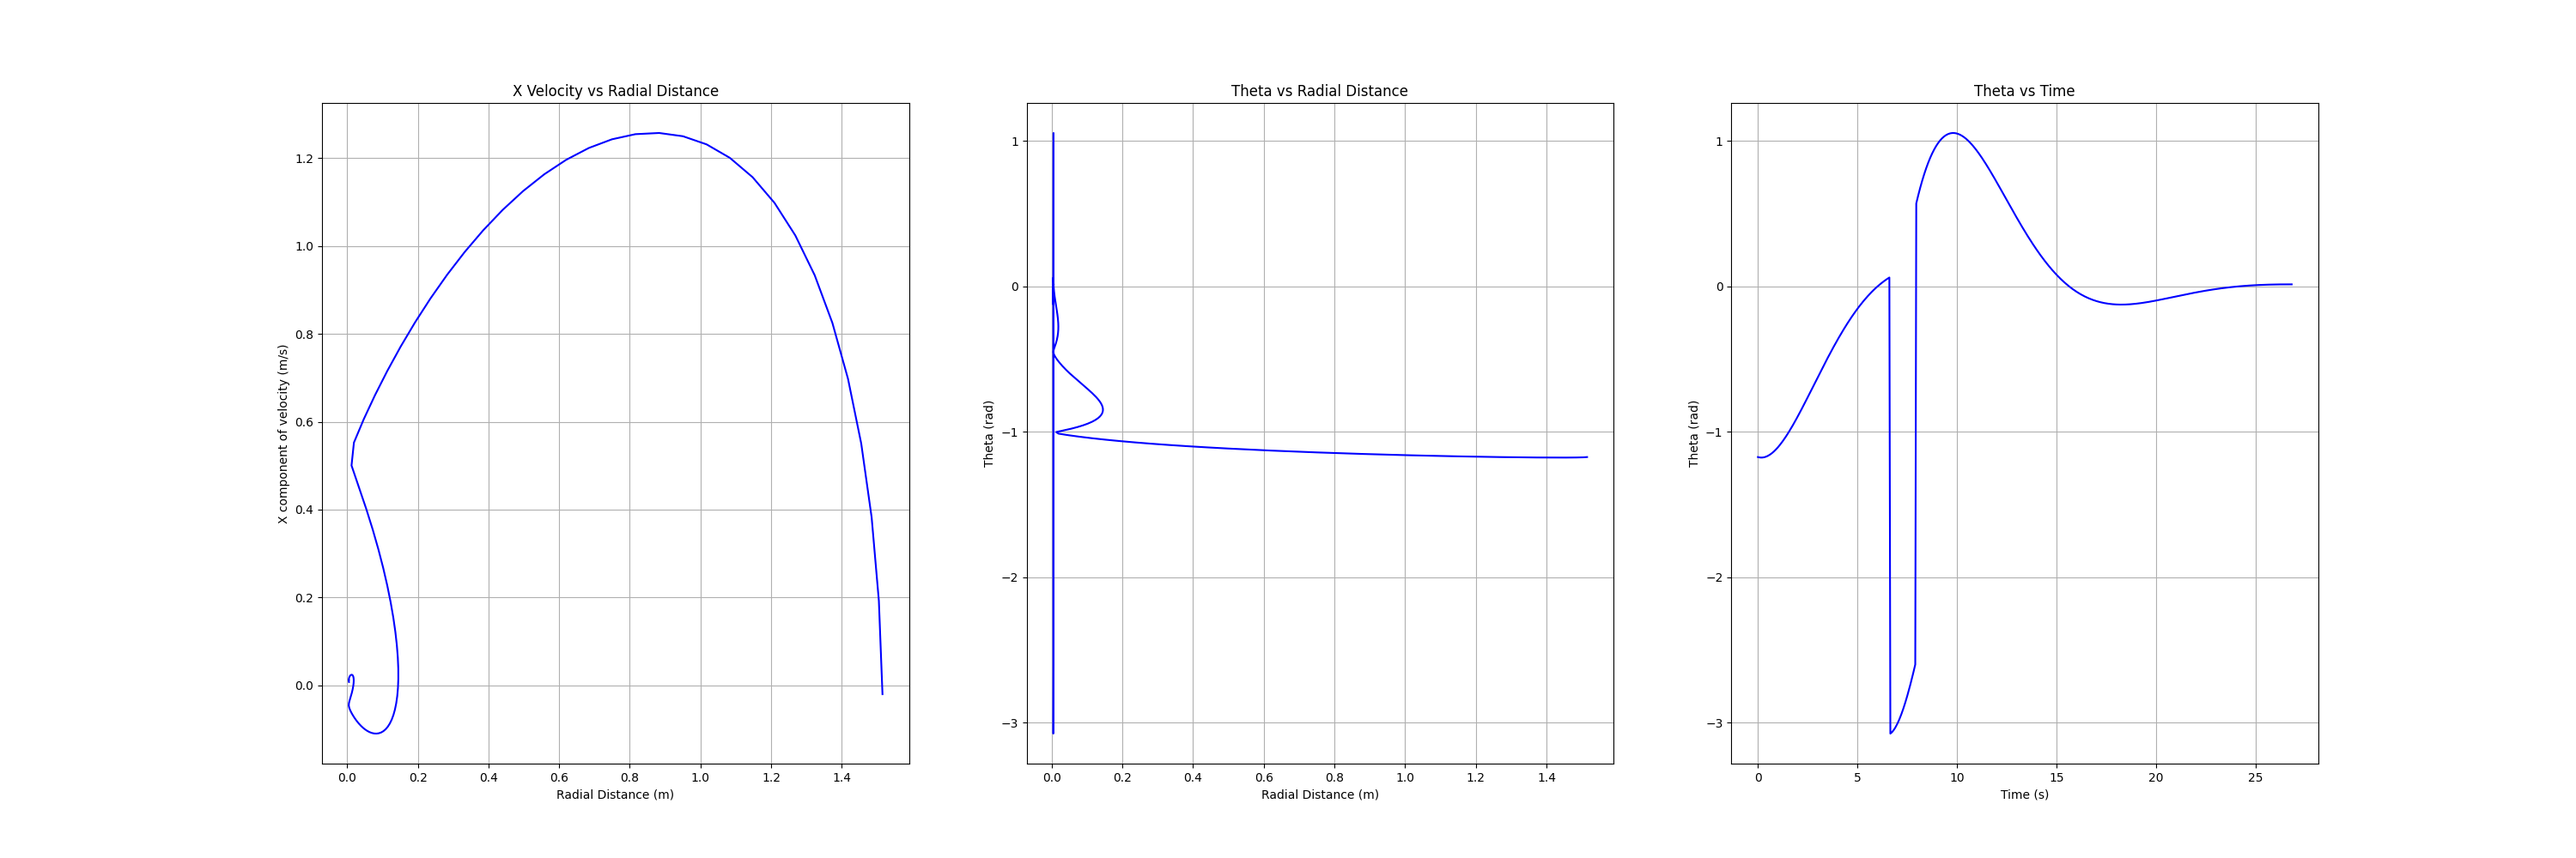
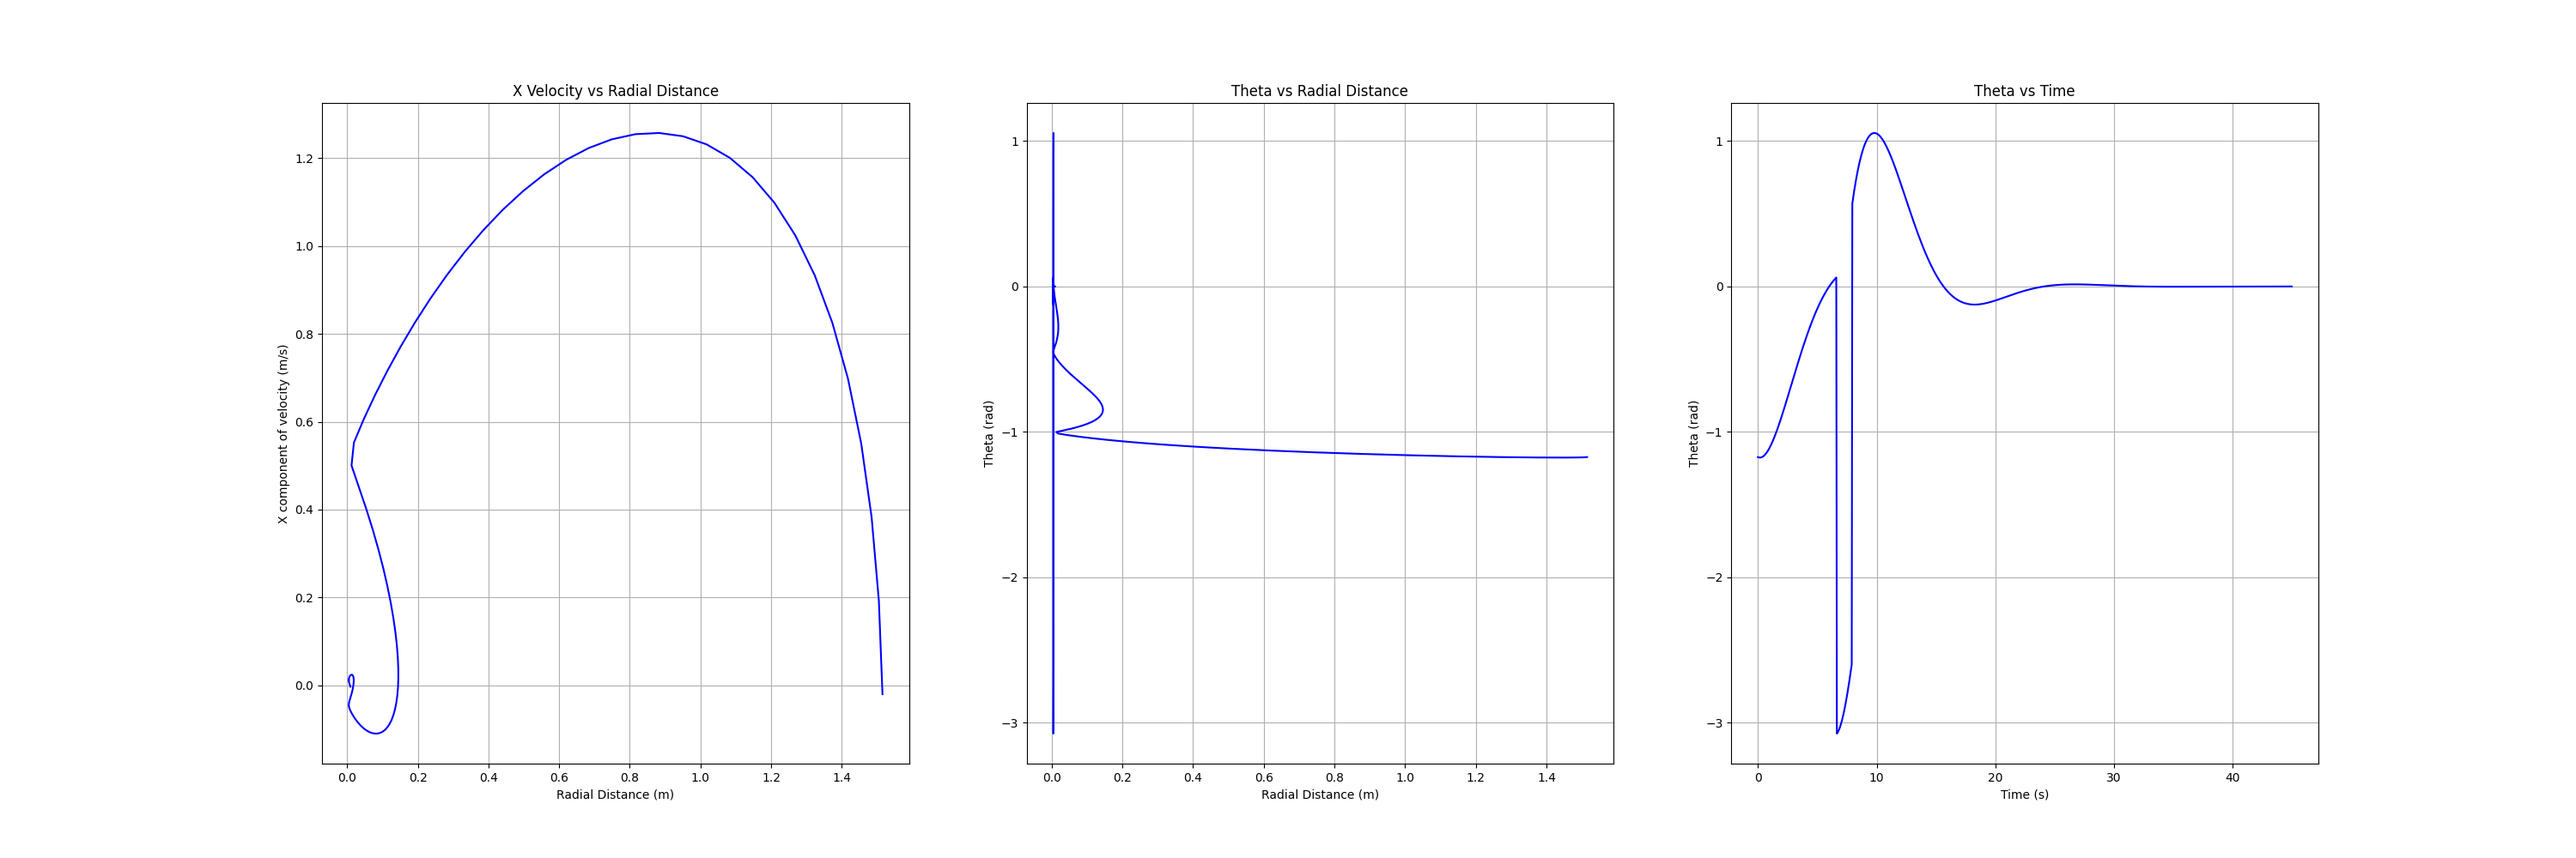
Didnt break anything!

Changed region(s): [[0.713, 0.31, 0.744, 0.837], [0.775, 0.31, 0.899, 0.372], [0.744, 0.155, 0.775, 0.186]]

diff --git a/team/team_controller.py b/team/team_controller.py
@@ -21,7 +21,7 @@ from RL import RL_Model
 # Specifically, init, run, and reset
 
 class SatelliteSystem(Environment):
-    def __init__(self, state_space, action_space):
+    def __init__(self):
         super().__init__()
         self.state = np.zeros(6)
         self.action = np.zeros(3)
@@ -82,13 +82,14 @@ class TeamController(SatControllerInterface):
 
         self.has_docked     = False
 
-        # # Initialize RL environment wrapper, agent and model
-        # self.RL_satellite = Environment.create(
-        #     environment=SatelliteSystem, max_episode_timesteps=500
-        # )
+        # Initialize RL environment wrapper, agent and model
+        self.RL_satellite = Environment.create(
+            environment=SatelliteSystem,
+            max_episode_timesteps=500
+        )
 
 
-        # self.RL_model = RL_Model(self.RL_satellite)
+        self.RL_model = RL_Model(self.RL_satellite)
 
 
         
@@ -202,28 +203,24 @@ class TeamController(SatControllerInterface):
         else:                                                                   
             theta_check = False
 
-        # Add error vector as a row to the self.errors matrix
+
         self.errors = np.vstack((self.errors, error))
-        # Same with actions
         self.actions = np.vstack((self.actions, control_actions))
 
-        # Final post-docking processing
-        if pose_check and theta_check:      
-            print(pose_check, theta_check)
-            self.has_docked = True
+        # # Final post-docking processing
+        # if pose_check and theta_check:      
+        #     print(pose_check, theta_check)
+        #     self.has_docked = True
 
+        if self.counter % 100 == 0:
             # Matplotlib to plot vy errors vs x errors - both located in self.errors
             state_space(self.errors)
-
 
 
         self.prev_time = self.elapsed_time
 
         return control
     
-
-    
-
 
 
     def team_reset(self) -> None:

diff --git a/team/RL.py b/team/RL.py
@@ -63,3 +63,5 @@ class RL_Model:
         runner.run(num_episodes=100, evaluation=True)
 
         runner.close()
+
+
